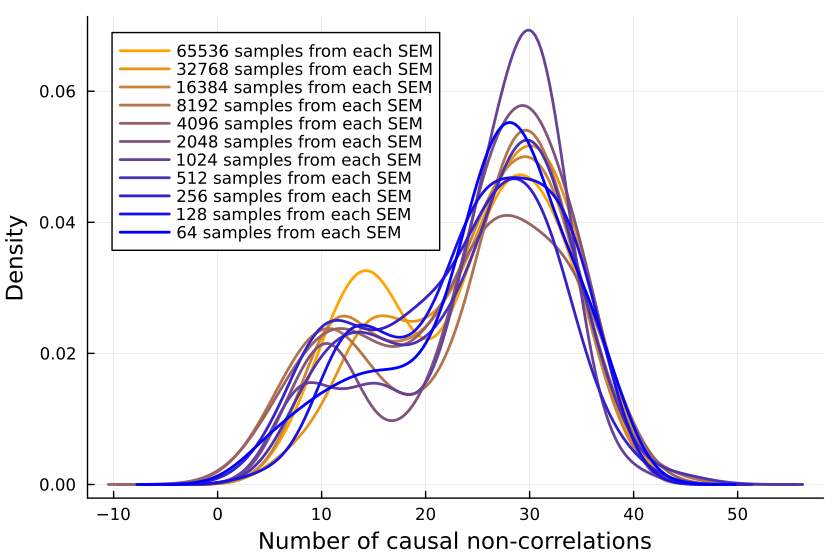
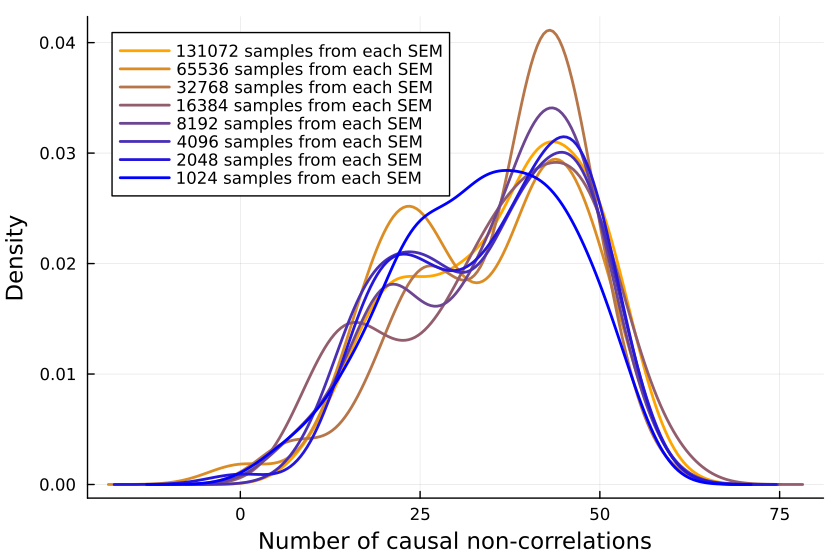
Fix & more samples

diff --git a/notes.md b/notes.md
@@ -2022,8 +2022,8 @@ are ignored because when running the code, they never give me any causal
 non-correlations. (I'd be interested in seeing examples to the contrary.)
 
 	results = Dict{Int, Array{Int, 1}}()
-	sem_samples=100
-	inputs_samples=10000
+	sem_samples=200
+	inputs_samples=20000
 	for i in 4:16
 	        results[i]=misclassified_absence_mc(i, sem_samples, inputs_samples)
 	end
@@ -2042,6 +2042,8 @@ So it *looks like* a growing proportion of causal relationships
 are not correlational, and I think the number will
 [asymptote](https://en.wikipedia.org/wiki/Asymptote) at 50%.
 
+### Is the Sample Size Too Small?
+
 Is the issue with the number of inner samples, are we
 simply *not checking enough*? But 10k samples [ought to be enough for
 anybody](https://www.computerworld.com/article/2534312/the--640k--quote-won-t-go-away----but-did-gates-really-say-it-.html)—if
@@ -2052,9 +2054,10 @@ But let's better go and write some code to check:
 	more_samples=Dict{Int, Array{Int, 1}}()
 	samples_test_size=12
 	sem_samples=100
-	for inputs_samples in 2 .^(6:16)
-	        println(inputs_samples)
-	        more_samples[inputs_samples]=misclassified_absence_mc(samples_test_size, sem_samples, inputs_samples)
+	inputs_samples=2 .^(6:17)
+	for inputs_sample in inputs_samples
+	        println(inputs_sample)
+	        more_samples[inputs_sample]=misclassified_absence_mc(samples_test_size, sem_samples, inputs_sample)
 	end
 
 Plotting the number of causal non-correlations reveals that 10k samples

diff --git a/changelog.md b/changelog.md
@@ -35,7 +35,7 @@ March 2024
 * [Naming ASCII characters](./language.html#Naming_ASCII_Characters)
 * Words missing from [German](./language.html#From_German) and [English](./language.html#From_English)
 
-### Link
+### Links
 
 * [Cold Showers, Tested (Nick Winter, 2013)](https://blog.nickwinter.net/posts/cold-showers-tested): Cold showers don't have an effect, except on mood.
 * [Curing Sleep: My Experiences Doing Cowboy Science (jayterwahl, 2021)](https://www.lesswrong.com/posts/cfRHPHdgpNcSEcY5y/curing-sleep-my-experiences-doing-cowboy-science): Somebody tries [Orexin](https://en.wikipedia.org/wiki/Orexin) and doesn't die!
